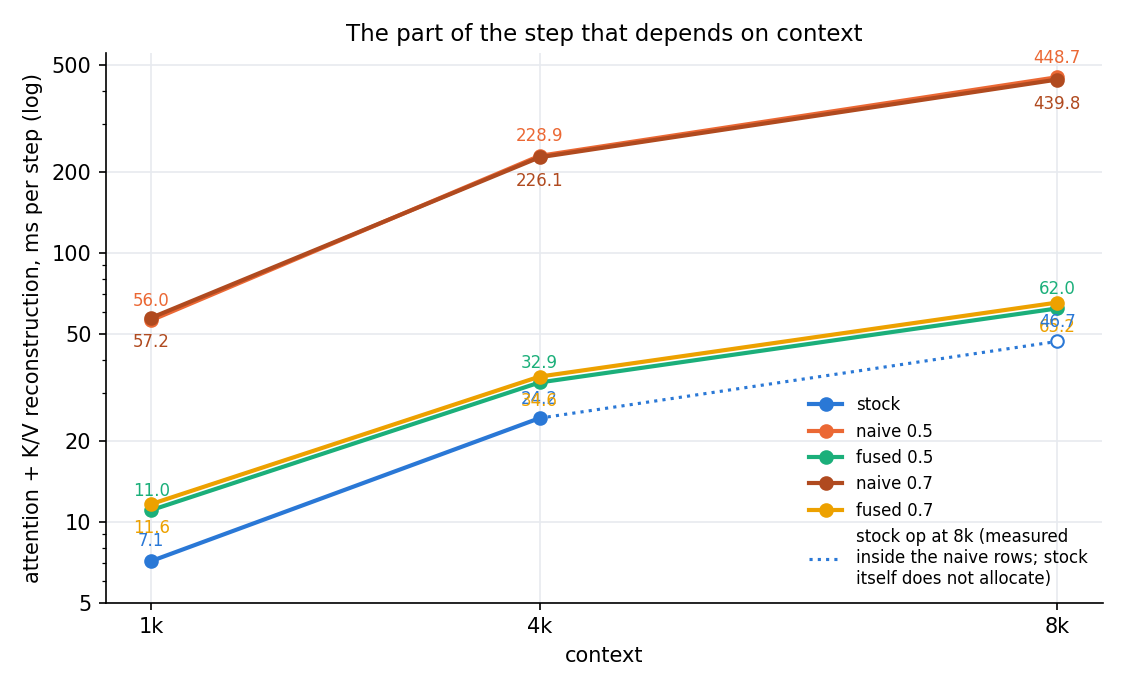
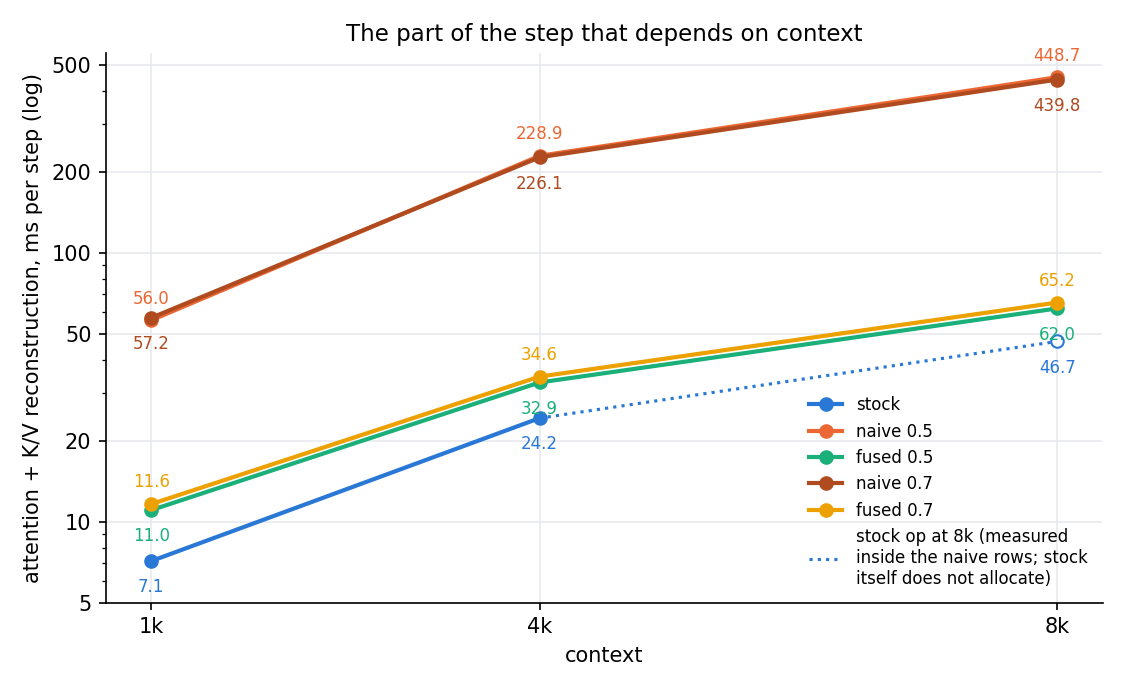
Stage 2d: fact-check corrections
Claude-Session: https://claude.ai/code/session_01SEbH3ediiqrAP9zmP59kKs

diff --git a/palu_tt/profile_plots.py b/palu_tt/profile_plots.py
@@ -94,7 +94,10 @@ def attention_ctx_figure(out_png):
                 ys.append(_cat_ms(p, "attention") + _cat_ms(p, "k_recon"))
         if xs:
             ax.plot(xs, ys, marker="o", color=ROW_COLOR[r], label=ROW_LABEL[r], linewidth=2)
-            dy = -14 if r.endswith("70") or r.endswith("70_fk2") else 7   # 0.5 above the line, 0.7 below
+            # within each near-coincident pair the upper line labels above and the lower below, so no two
+            # labels (nor stock's, nor the dotted stock-op point) land on the same spot
+            dy = {"baseline": -15, "palu_full_50": 8, "palu_full_70": -15,
+                  "palu_full_50_fk2": -15, "palu_full_70_fk2": 8}[r]
             for x, y in zip(xs, ys):
                 ax.annotate(f"{y:.1f}", (x, y), textcoords="offset points", xytext=(0, dy), fontsize=8,
                             color=ROW_COLOR[r], ha="center")
@@ -103,7 +106,7 @@ def attention_ctx_figure(out_png):
         st4 = _cat_ms(_load("baseline", 4096), "attention")
         ax.plot([4, 8], [st4, stock_8k], color=ROW_COLOR["baseline"], linewidth=1.5, linestyle=":")
         ax.plot([8], [stock_8k], marker="o", markerfacecolor="white", color=ROW_COLOR["baseline"])
-        ax.annotate(f"{stock_8k:.1f}", (8, stock_8k), textcoords="offset points", xytext=(0, 7), fontsize=8,
+        ax.annotate(f"{stock_8k:.1f}", (8, stock_8k), textcoords="offset points", xytext=(0, -15), fontsize=8,
                     color=ROW_COLOR["baseline"], ha="center")
         ax.plot([], [], color=ROW_COLOR["baseline"], linestyle=":", label="stock op at 8k (measured\ninside the naive rows; stock\nitself does not allocate)")
     ax.set_xticks([c // 1024 for c in CONTEXTS])

diff --git a/docs/results/stage2d.md b/docs/results/stage2d.md
@@ -48,14 +48,16 @@ bound on the step. The untraced wall-clock step from the separate, unprofiled `b
 
 Two things follow. First, **the step is device-bound**: at most 3.3 % of it is dispatch bubbles, so
 optimising the ops is the whole game and the untraced-vs-traced question stage 2 left open is worth
-at most ~1.5 ms at 4k. Second, **the profiler is not visibly perturbing the kernels**: a profiled
+at most ~1.5 ms at 4k — for stock and the fused rows; the naive rows' 2.2 % is 5.7 ms (0.5) and
+6.1 ms (0.7) at 4k, because the same relative dispatch overhead rides a step five times as long. Second, **the profiler is not visibly perturbing the kernels**: a profiled
 kernel that ran slow would push the device sum *up*, and the sum comes in consistently *below* an
 independently measured wall clock by a small, stable margin. That is an argument, not a measurement —
 the same model was not benched with and without the profiler.
 
 **A note on precision.** Three steps is enough because the per-op numbers are extremely repeatable
-(the same op signature at the same shape lands within 0.003 ms of itself across rows — e.g. the MLP
-category is 12.322–12.333 ms in all fourteen runs), but it means there is **no run-to-run error bar**
+(the same op signature at the same shape lands within about 0.02 ms of itself across rows — worst
+case 0.0223 ms on the 64-call reduce-scatter; the MLP category is 12.322–12.333 ms in all fourteen
+runs), but it means there is **no run-to-run error bar**
 in this stage. Differences below ~0.05 ms per step should not be read.
 
 **The roofline used below.** Wormhole n300 is 24 GB of GDDR6 at ~576 GB/s across two chips, i.e.
@@ -111,12 +113,18 @@ What those 30 ms are (ratio 0.5 and 0.7 columns are the fused rows), at 4k:
 | layout | 0.372 | 1.489 | 1.472 | 1.043 | 1.037 | shard/reshard/typecast/slice |
 | **total** | **29.93** | **30.75** | **30.55** | **30.63** | **30.20** | |
 
-The Palu rows pay **+1.10 ms of extra `layout`** (0.372 → 1.47 at ratio 0.5) for slicing and
-resharding the two latent caches, get **0.16 ms back on `heads`** (they do not RoPE K in decode mode
-— the K rotation moves either into the reconstruction or into the fused kernel), and land 0.3–0.8 ms
-above stock in total. `ccl` is the only category with real spread (9.31–10.48 ms across all fourteen
-runs, ±6 %); it is a cross-chip synchronisation and picks up whatever skew the rest of the step has,
-which is why the naive 8k rows — where the step is 480 ms long — show its highest values.
+The Palu rows pay **+1.10 ms of extra `layout`** (0.372 → 1.47 at ratio 0.5), and it is not the
+latent caches: two thirds of it is `Pad` (0.520) plus `FillPad` (0.262) on the *attention output*,
+`[1, 32, 16, r_v] → [1, 32, 32, 128]`, i.e. padding the narrow V-absorbed output back to tile width
+before `wo`. Those ops run only on layers whose `r_v` is below 128 — 14 calls each at ratio 0.5
+(0.446 + 0.224 on the twelve `r_v` 64 layers, the rest on the two `r_v` 96 ones) against 7 at
+ratio 0.7, which is exactly why ratio 0.5 carries more `layout` (1.47) than ratio 0.7 (1.04) despite
+storing less. The Palu rows also get **0.16 ms back on `heads`** (they do not RoPE K in decode mode —
+the K rotation moves either into the reconstruction or into the fused kernel), and land 0.3–0.8 ms
+above stock in total. `ccl` is the only category with real spread (9.05–10.48 ms across all fourteen
+runs, ±7.4 % about the mean; 9.31 is only the minimum of the 4k table above); it is a cross-chip
+synchronisation and picks up whatever skew the rest of the step has, which is why the naive 8k rows —
+where the step is 480 ms long — show its highest values.
 
 **Why this part is identical: decode at batch 32 is weight-streaming, and the weights do not change.**
 Every row runs the same 8B-parameter model in bfp8; per chip per step the four matmul categories move
@@ -129,7 +137,8 @@ Every row runs the same 8B-parameter model in bfp8; per chip per step the four m
 | lm_head | 4096 × 64128 → 0.279 GB | 1.090 | 256 GB/s |
 | **all four** | **3.987 GB** | **16.83** | **237 GB/s** |
 
-At 84 % of the n300's ~288 GB/s datasheet bandwidth, these ops are as memory-bound as a decode step
+At 82 % of the n300's ~288 GB/s datasheet bandwidth (the MLP alone is at 84 %), these ops are as
+memory-bound as a decode step
 gets: the batch of 32 tokens is far too small to make them compute-bound, so they cost exactly one
 pass over the weights regardless of what the attention block does. That is the "30 ms floor", and it
 is why **the only lever any KV-compression scheme has on a batch-32 decode step is the attention
@@ -144,13 +153,13 @@ The 243 GB/s the MLP achieves is used as the in-situ roofline for the rest of th
 
 Attention + reconstruction, ms per step (log axis in the figure). Stock does not allocate at 8192 at
 batch 32, but its op is still measured there: the naive rows run **the stock op on the reconstructed
-full-width K**, and its `out`-128 signature costs 1.461 ms per layer at 8k, i.e. **46.8 ms for 32
+full-width K**, and its `out`-128 signature costs 1.4608 ms per layer at 8k, i.e. **46.7 ms for 32
 layers** — a measurement, not an extrapolation (a linear fit through stock's 1k and 4k points
 predicts 47.0, which is the same number). The figure shows this as the dotted extension.
 
 | row | 1k | 4k | 8k | slope, ms per extra 1024 positions |
 |---|---|---|---|---|
-| stock | 7.13 | 24.24 | (46.8, op only) | 5.70 |
+| stock | 7.13 | 24.24 | (46.7, op only) | 5.70 |
 | naive 0.5 | 56.03 | 228.86 | 448.75 | 56.10 |
 | naive 0.7 | 57.23 | 226.08 | 439.76 | 54.65 |
 | fused 0.5 | 11.03 | 32.90 | 62.01 | 7.28 |
@@ -196,15 +205,18 @@ per-layer, per-chip cache bytes the op must read: `32 batch × 4 heads × S × (
 
 (The 4k figures for `r_k` 32 / `r_v` 128 appear in both fused rows — 1.034 ms on 18 layers of ratio
 0.5 and 1.037 ms on 3 layers of ratio 0.7 — and for `r_k` 64 / `r_v` 96 on one layer of each, 1.112
-and 1.108. Reproducibility across independent runs is 0.3 %.)
+and 1.108. Reproducibility across independent runs is 0.4 % (1.0335 vs 1.0374, 1.1122 vs 1.1082).)
 
 **Read the two halves of that table against each other. The stock op is bandwidth-bound and the fused
-op is not.** Every stock variant sits at 74–80 % of the in-situ roofline at 4k and 8k, and its time
-tracks its bytes: dropping `r_v` from 128 to 64 removes 25 % of the bytes and 22 % of the time
-(0.758 → 0.592). Every fused variant sits at 22–42 %, and its time barely tracks its bytes at all:
-at 4k, dropping `r_v` from 128 to 64 removes **40 % of the bytes and 2 % of the time**
-(1.034 → 1.014), and doubling `r_k` from 32 to 64 — which doubles both the latent bytes and the
-reconstruction matmul's inner dimension — costs **7.7 %** (1.034 → 1.114), not 100 %.
+op is not.** Every stock variant sits at 74–80 % of the in-situ roofline at 4k and 8k (61–66 % at 1k,
+where the op is too short to reach it), and its time tracks its bytes: dropping `r_v` from 128 to 64
+removes 25 % of the bytes and 22 % of the time (0.758 → 0.592). Every fused variant sits at 22–42 %,
+and its time barely tracks its bytes at all: at 4k, dropping `r_v` from 128 to 64 removes **40 % of
+the op's cache bytes and 2 % of its time** (89.1 → 53.5 MB, 1.034 → 1.014 ms), and doubling `r_k`
+from 32 to 64 — which doubles the latent bytes and the reconstruction matmul's inner dimension, and
+raises the op's total cache bytes by 20 % (89.1 → 107.0 MB) — costs **7.7 %** (1.034 → 1.114). Read
+the other way: going from (32, 64) to (64, 128) doubles both ranks and raises the bytes by 100 %
+(53.5 → 107.0 MB) for **10 %** more time.
 
 Stage 2 called the kernel "overhead-bound, not bandwidth-bound" from a layer-0 microbench. This
 confirms it on the whole model, and quantifies it: the fused op reads **0.63x** stock's bytes at
@@ -216,7 +228,7 @@ Aggregated over the 32 layers (per-layer ranks in §5), that is:
 |---|---|---|---|---|---|
 | 1024 | 7.13 | 11.03 | 1.55x | 11.62 | 1.63x |
 | 4096 | 24.24 | 32.90 | 1.36x | 34.59 | 1.43x |
-| 8192 | (46.8) | 62.01 | 1.33x | 65.20 | 1.39x |
+| 8192 | (46.7) | 62.01 | 1.33x | 65.20 | 1.39x |
 
 The naive rows' *attention op* is meanwhile **cheaper than stock** — 22.12 vs 24.24 ms at 4k — because
 absorbing V into `wo` narrows the output to `r_v` and the op is bandwidth-bound, so a narrower V is
@@ -232,6 +244,12 @@ directly cheaper. That saving is worth ~2 ms and is bought at the price of the n
 The waterfall says the whole story in one bar: at 4k the naive ratio-0.5 row is stock **+206.7 ms of
 K/V reconstruction**, −2.1 ms of attention op, +1.1 ms of layout, −0.2 ms of heads and −0.1 of CCL; and the
 fused row is the naive row **−206.7 ms of reconstruction, +10.8 ms of attention op**.
+
+Ratio 0.7 (second figure) is the same shape with smaller numbers everywhere but the reconstruction:
+stock 54.2 **+202.4** (reconstruction) **−0.6** (attention op — 0.7's mix of `r_v` 96/128 gives back
+less than 0.5's `r_v` 64 layers do) **+0.7** (layout, fewer narrow-`r_v` layers to pad than 0.5's
++1.1) **−0.2** (heads) **+0.2** (CCL) = 256.7; then **−202.4** (reconstruction) **+10.9** (attention
+op) **−0.4** (CCL) = 64.8. The two ratios differ by less than 3 ms at every point of the bridge.
 
 Per decode step the naive path runs three op signatures per layer, on the full-width K it has to
 materialise. At ratio 0.5, 4k:
@@ -252,20 +270,23 @@ and the same three at the other contexts (ratio 0.5, ms per step):
 | 4096 | 91.17 | 79.77 | 32.77 | 3.03 | 206.74 | 6.461 ms | 1577 ns |
 | 8192 | 175.36 | 159.38 | 65.89 | 5.71 | 406.34 | 12.698 ms | 1550 ns |
 
-Ratio 0.7 (31 reconstructed layers; layer 31 has `r_k` 128 and needs none): 19.24 + 17.62 + 8.15 +
-5.26 = 50.28 at 1k, 77.27 + 69.75 + 31.83 + 23.54 = 202.40 at 4k, 154.62 + 131.05 + 63.37 + 45.18 =
-394.22 at 8k.
+Ratio 0.7 has 31 reconstructed layers (layer 31 has `r_k` 128 and needs none) and its matmuls split
+between the two ranks, so its terms come in a different order — RoPE + `r_k` 64 matmuls (×23) +
+typecast + `r_k` 32 matmuls (×8): 19.24 + 17.62 + 8.15 + 5.26 = 50.28 at 1k, 77.27 + 69.75 + 31.83 +
+23.54 = 202.40 at 4k, 154.62 + 131.05 + 63.37 + 45.18 = 394.22 at 8k.
 
-**Everything is linear in S**, to 4 %: the per-position-per-layer cost is 1509 / 1577 / 1550 ns at
+**Everything is linear in S**, to 4.5 %: the per-position-per-layer cost is 1509 / 1577 / 1550 ns at
 1k / 4k / 8k, and a straight line through the 1k and 8k step totals has an intercept of −1.5 ms, i.e.
 essentially zero. That is the defining property of the naive path: it re-materialises the **entire**
 `[32, 4, S, 128]` K tensor for **every layer** on **every decode step**, to serve one new query row.
 At 4k that is 128 MiB of bf16 K per layer, written by the matmul, read and rewritten by the RoPE, read
-and rewritten (narrower) by the typecast, and finally read by the attention op — **20.1 GB of DRAM
-traffic per chip per step**, against the 4.0 GB the entire model's weights need. The reconstruction
-moves five times the model.
+and rewritten (narrower) by the typecast — **20.1 GB of DRAM traffic per chip per step** before the
+attention op has read anything, and the attention op then reads a further ~4.1 GB of it. Against the
+4.0 GB the entire model's weights need, the reconstruction alone moves five times the model.
 
-**Is it bandwidth-bound? Only one third of it is.** Against the 243 GB/s in-situ roofline:
+**Is it bandwidth-bound? Only the cheapest third of the bytes are.** The typecast is 33 % of the
+reconstruction's bytes but only 16 % of its time; the other two ops move more and take longer per
+byte. Against the 243 GB/s in-situ roofline:
 
 - the **typecast** is, at 201 GB/s (83 %). It is a pure streaming op and there is nothing to fix
   about it except not needing it.
@@ -277,7 +298,7 @@ moves five times the model.
   1.46 TFLOP/s for 4.29 GFLOP in 2.941 ms. It is a matmul with an inner dimension of **one 32-row
   tile** (`r_k` = 32) producing four output tiles per row block, so almost all of its time is
   per-output-tile unpack/pack and CB synchronisation rather than MACs. The direct evidence is that
-  **doubling `r_k` to 64 costs 3.1 %** (2.941 → 3.033 ms per layer): the inner dimension doubled and
+  **doubling `r_k` to 64 costs 3.0 %** (2.941 → 3.031 ms per layer): the inner dimension doubled and
   nothing happened, exactly as in the fused kernel (§4). Both paths are limited by the same thing —
   the cost of touching each output tile of a 128-wide K — and neither is limited by the rank.
 
@@ -304,23 +325,27 @@ nearly collinear points, so the fit is tight:
 
 | signature | fixed per layer | per chunk per layer | per head-item per chunk |
 |---|---|---|---|
-| stock, `r_v` 128 | 47.9 µs | 88.4 µs | 44.2 µs |
-| fused, `r_k` 32 / `r_v` 64 | 115.5 µs | 112.3 µs | 56.2 µs |
-| fused, `r_k` 32 / `r_v` 128 | 118.0 µs | 114.3 µs | 57.1 µs |
-| fused, `r_k` 64 / `r_v` 128 | 129.7 µs | 123.1 µs | 61.6 µs |
+| stock, `r_v` 128 | 47.7 µs | 88.4 µs | 44.2 µs |
+| fused, `r_k` 32 / `r_v` 64 | 115.9 µs | 112.2 µs | 56.1 µs |
+| fused, `r_k` 32 / `r_v` 128 | 118.1 µs | 114.3 µs | 57.2 µs |
+| fused, `r_k` 64 / `r_v` 128 | 129.5 µs | 123.1 µs | 61.6 µs |
 
-So the fused op's excess over stock decomposes into **~70 µs per layer of fixed cost** and
+Two significant figures is all these deserve: an intercept extrapolated from x = 2 / 8 / 16 carries
+roughly ±3 µs given the ~1 % per-op repeatability, so "70 µs of excess fixed cost" below means
+60–80 µs. So the fused op's excess over stock decomposes into **60–80 µs per layer of fixed cost**
+and
 **~26 µs per layer per chunk** (12.9 µs per head-item per chunk). The excess per chunk is therefore
 *not* constant when you divide the raw totals by chunk count — it falls from 61.5 µs at 1k to 34.5 at
 4k to 30.4 at 8k — precisely because part of it is fixed and part is per-chunk. The per-chunk part is
 what stops the ratio improving further with context, and the fixed part is why 1k is the worst case.
 
 A chunk of 512 positions is **16 K row tiles**, and per row tile the kernel (spec §4) does: one
-`AB = lat @ [u_k | u_k·T]` matmul (inner dim `r_k`/32 tiles, 8 output tiles); then, for each of the 4
-column tiles, a separate `tile_regs_acquire`/`commit`/`wait`/`release` round trip containing two FPU
-`mul_tiles` and one SFPU `add_binary_tile`; plus `matmul_block_init`, `mul_init`,
-`add_binary_tile_init` and two `reconfig_data_format` calls **per row tile**. Charging the marginal
-excess to those row tiles:
+`AB = lat @ [u_k | u_k·T]` matmul (inner dim `r_k`/32 tiles, 8 output tiles), itself two more
+`tile_regs_acquire`/`release` pairs; then, for each of the 4 column tiles, a separate
+`tile_regs_acquire`/`commit`/`wait`/`release` round trip containing two FPU `mul_tiles` and one SFPU
+`add_binary_tile` — **six DST round trips per row tile in total**; plus `matmul_block_init`,
+`mul_init`, `add_binary_tile_init`, two `reconfig_data_format` and two `pack_reconfig_data_format`
+calls **per row tile**. Charging the marginal excess to those row tiles:
 
 | what | per head-item per chunk | per K row tile |
 |---|---|---|
@@ -331,18 +356,20 @@ excess to those row tiles:
 **The matmul is not the problem.** Adding a second inner tile to the `AB` matmul — a 100 % increase in
 its work and in the latent bytes read — costs 275 ns per row tile, about a third of the total 807 ns
 excess. The other two thirds are spent on work that happens once per row tile *regardless of rank*:
-the four DST round trips, the twelve elementwise tile ops, and the re-executed inits. That is exactly
+the six DST round trips, the twelve elementwise tile ops, and the re-executed inits. That is exactly
 the set of things stage 2 §4 listed as untried levers, and this profile is the evidence for them:
 
-- **DST round trips.** Four `tile_regs_acquire`/`release` pairs per row tile where two `j` values fit
-  in one acquisition at `dst_size = 4`, i.e. two round trips would do. Each round trip is a full
-  three-thread sync.
+- **DST round trips.** Six `tile_regs_acquire`/`release` pairs per row tile — two for the `AB`
+  matmul and one per column tile `j` — where two `j` values fit in one acquisition at `dst_size = 4`,
+  i.e. four would do. Each round trip is a full three-thread sync.
 - **Per-row-tile inits.** `matmul_block_init` / `mul_init` / `add_binary_tile_init` are re-run on
-  every one of the 16 row tiles per chunk; only the two `reconfig_data_format` calls genuinely have
-  to be per tile.
+  every one of the 16 row tiles per chunk; only the two `reconfig_data_format` and two
+  `pack_reconfig_data_format` calls genuinely have to be per tile.
 - **Half-tile Q.** `use_half_tile` is forced off in the copied op, so the Q side does full 32-row tile
-  math for 16 query heads per chip. This lands mostly in the **fixed** 70 µs per layer, which is the
-  part that dominates at 1k — and 1k is where the fused op is worst (1.55x).
+  math for 16 query heads per chip. *Inference, not measurement*: Q-side work is per call rather than
+  per chunk, so it should land in the **fixed** 60–80 µs per layer, which is the part that dominates
+  at 1k — and 1k is where the fused op is worst (1.55x). The profile cannot separate it from the
+  other per-call costs.
 - **SFPU add.** One SFPU `add_binary_tile` per (row tile, column tile) — 64 per chunk — where the
   FPU could accumulate the two products.
 
@@ -353,20 +380,30 @@ the set of things stage 2 §4 listed as untried levers, and this profile is the 
 | fused per layer (`r_k` 32 / `r_v` 128) | 0.346 | 1.034 | 1.947 |
 | stock per layer | 0.223 | 0.758 | 1.461 |
 | **fused must lose** | **36 %** | **27 %** | **25 %** |
-| whole-step: fused attention must fall from → to | 11.03 → 6.48 (−41 %) | 32.90 → 23.62 (−28 %) | – |
+| whole-step: fused attention must fall from → to | 11.03 → 6.48 (−41 %) | 32.90 → 23.63 (−28 %) | – |
 
-(The whole-step target is larger than the per-op target because the fused rows also carry ~0.6 ms of
-extra `layout`; a step matching stock's 54.17 ms at 4k needs its attention block at 23.62 ms, not at
+(The whole-step target is larger than the per-op target because the fused rows also carry a net
+0.6 ms of non-attention excess — `layout` +1.10, partly offset by cheaper `heads`, `ccl`, `norm` and
+`cache`; a step matching stock's 54.17 ms at 4k needs its attention block at 23.63 ms, not at
 stock's 24.24.)
 
-Is 26 % reachable from the levers above? The marginal excess is 807 ns per row tile. Halving the DST
-round trips (4 → 2) plausibly removes on the order of 200–400 ns of sync per row tile, and hoisting
+Is 27 % reachable from the levers above? The marginal excess is 807 ns per row tile. Cutting the DST
+round trips a third (6 → 4) plausibly removes on the order of 150–350 ns of sync per row tile, and hoisting
 the three inits out of the row-tile loop removes a smaller fixed block; together those are the right
 order of magnitude for the per-chunk part of the gap, and `use_half_tile` attacks the fixed part that
 dominates at 1k. **That is a plausibility argument from op counts, not a measurement** — none of the
 four levers has been tried, and stage 2 did not try them either. What this profile does settle is
 that they are the *right* things to try: there is no DRAM traffic left to remove, and the rank is
 nearly free.
+
+**One qualification on the byte model.** The MB figures in §2 count only the K and V caches; the fused
+op also reads its own weights and tables, which stock does not have. The largest is the Phase 2
+chunk-relative `[cos | sin]` table, 512 × 256 bf16 per core resident in `c_13` — **about 17 MB per
+call** across 64 cores, ~19 % on top of the 89.1 MB of cache at `r_k` 32 / `r_v` 128 and 4k (`w_rot`
+adds ~2 MB, `trans_mat` 0.13 MB). Counting it moves that point from 35 % to about 42 % of the
+in-situ roofline. It does not change the conclusion — 42 % is still half of stock's 77 %, and the
+table is read once per core per call, so it cannot explain a *per-chunk* cost — but the fused op's
+"% of roofline" figures in §2 are lower bounds by roughly that much.
 
 ---
 
@@ -412,13 +449,24 @@ The naive rows invert the ordering — 259.61 (0.5) vs 256.72 (0.7) at 4k, i.e. 
 one matmul, one RoPE and one typecast (6.46 ms at 4k), which more than covers the 3 % the wider
 latents add to the remaining 31 matmuls.
 
+**An implication for stage 3's calibration.** On the fused path the two ranks are priced very
+differently: at 4k, widening `r_v` from 64 to 128 costs **2 %** of the op (1.014 → 1.034) while
+widening `r_k` from 32 to 64 costs **8 %** (1.034 → 1.114), because `r_k` is the only one that feeds
+the per-row-tile reconstruction. A calibration that spent its bit budget on `r_v` and pinned `r_k` at
+32 would therefore buy back most of ratio 0.7's quality (ppl 9.03 vs 12.93 at ratio 0.5) at close to
+ratio 0.5's speed. The (32, 128) vs (64, 128) pair supports this directly: same output width, same
+V bytes, 1.034 vs 1.114 ms — and ratio 0.7 has 23 layers on the expensive side of it. This is a
+hypothesis the profile motivates, not a result: nothing here measures the quality of an
+`r_k`-pinned recipe.
+
 ---
 
 ## 6. The three questions
 
 **Why is naive Palu 2–5x slower than stock?** Because it rebuilds the entire K cache from its latents
-on every decode step, in three separate full-width passes, and pays 3–13x the cost of the attention
-op it is feeding. At 4k that is a `latent @ U` matmul (91.2 ms), a prefill-mode RoPE over the rebuilt
+on every decode step, in three separate full-width passes, and pays **7.2–9.6x** the cost of the
+attention op it is feeding (7.51 / 9.35 / 9.58 at ratio 0.5 and 7.23 / 8.55 / 8.66 at ratio 0.7, at
+1k / 4k / 8k). At 4k that is a `latent @ U` matmul (91.2 ms), a prefill-mode RoPE over the rebuilt
 K (79.8 ms) and a typecast back to bfp8 (32.8 ms) — **206.7 ms against stock's whole 54.2 ms step** —
 because every one of those ops materialises the full `[32, 4, 4096, 128]` bf16 K for each of 32
 layers, 20.1 GB of DRAM traffic per chip per step against the 4.0 GB the model's weights need. All
@@ -431,18 +479,20 @@ help — ratio 0.5 and ratio 0.7 reconstruct at the same speed.
 the attention op that replaced it is overhead-bound, not bandwidth-bound, and costs 1.33–1.55x the
 stock op per layer even while reading 0.63x the bytes. The whole difference between the fused rows and
 stock is the attention op: 30 ms of weight streaming, CCL and norms is identical in every row, and the
-fused rows sit 30.55 − 29.93 = 0.6 ms above stock outside attention (+1.10 ms of latent-cache
-layout, partly offset by cheaper decode-mode `heads` and CCL). The op's cost is dominated by
-per-K-row-tile work inside the reconstruct-and-rotate pass — four DST round trips, twelve elementwise
-tile ops and three re-executed inits for every 32 positions of every chunk — plus a fixed ~70 µs per
-layer of Q-side full-tile math. The proof that it is overhead and not data movement is that doubling
-`r_v` (40 % more bytes) costs 2 % and doubling `r_k` (which doubles both the latent bytes and the
-reconstruction matmul's inner dimension) costs 8 %; the stock op, by contrast, tracks its bytes almost
-exactly and runs at 74–80 % of the achievable DRAM bandwidth.
+fused rows sit 30.55 − 29.93 = 0.6 ms above stock outside attention (`layout` +1.10 for padding the
+narrow attention output, partly offset by cheaper decode-mode `heads`, CCL, `norm` and `cache`). The
+op's cost is dominated by per-K-row-tile work inside the reconstruct-and-rotate pass — six DST round
+trips, twelve elementwise tile ops and three re-executed inits for every 32 positions of every chunk —
+plus 60–80 µs per layer of fixed cost that includes the Q-side full-tile math. The proof that it is
+overhead and not data movement is that **removing 40 % of the op's cache bytes (`r_v` 128 → 64) saves
+2 % of its time**, and doubling `r_k` — which doubles the latent bytes and the reconstruction
+matmul's inner dimension — costs 8 %; the stock op, by contrast, tracks its bytes almost exactly and
+runs at 74–80 % of the achievable DRAM bandwidth at 4k and 8k (61–66 % at 1k, where it is too short
+to reach it).
 
 **Why does context change the ratio?** Because the fused op's excess over stock has a large fixed
-component, and context dilutes it. Per layer, stock costs 47.9 µs + 88.4 µs per 512-position chunk and
-the fused op costs 118.0 + 114.3; the fixed part is 2.5x stock's and the marginal part only 1.29x. At
+component, and context dilutes it. Per layer, stock costs 47.7 µs + 88.4 µs per 512-position chunk and
+the fused op costs 118.1 + 114.3; the fixed part is 2.5x stock's and the marginal part only 1.29x. At
 1k there are 2 chunks, so the fixed part is a third of the op and the ratio is 1.55x; at 8k there are
 16 chunks, the fixed part is 6 % of the op, and the ratio falls to 1.33x. The whole-step ratio moves
 the other way for a different reason — the constant 30 ms of weight streaming is a shrinking fraction
@@ -462,8 +512,12 @@ so it goes from 2.3x stock at 1k to 4.8x at 4k, and the fused kernel's advantage
   bounds the perturbation loosely, but the same model was never benched with and without the profiler,
   so there is no direct measurement of the profiler's cost.
 - **Three profiled steps, no error bar.** Repeatability across rows for identical op signatures is
-  0.3 % or better and the two chips agree to 0.034 %, but nothing here has a run-to-run spread. Read
-  no difference smaller than ~0.05 ms per step.
+  at most 1 % for the compute ops (worst: 0.9 % on `SdpaDecode`, 0.7 % on the typecast, 0.3 % on the
+  reconstruction matmul), and the two chips agree to 0.034 %. Two ops are much noisier and neither
+  matters to a conclusion here: the 64-call reduce-scatter varies **21 %** per call (0.0223 ms, and
+  it is why the `ccl` category moves ±7.4 %) and the lm_head untilize **9 %** (0.0093 ms). Nothing
+  here has a run-to-run spread from repeated runs of the *same* row. Read no difference smaller than
+  ~0.05 ms per step.
 - **Batch 32 only, and one position.** Every profile is batch 32 decoding at the last position of the
   context. The 30 ms weight-streaming floor is a batch-32 statement: at batch 1 the same weights are
   streamed for one token and the attention block is negligible, which is why stage 2 §5 found the
@@ -476,10 +530,12 @@ so it goes from 2.3x stock at 1k to 4.8x at 4k, and the fused kernel's advantage
   fused 0.7).
 - **Stock has no 8192 row** — it does not allocate at batch 32. Its op cost at 8k is taken from the
   identical `SdpaDecode` `out`-128 signature that the naive rows run there (1.461 ms per layer);
-  a whole stock 8k *step* is not measured and the 46.8 ms figure is 32 × that per-layer cost, not a
+  a whole stock 8k *step* is not measured and the 46.7 ms figure is 32 × that per-layer cost, not a
   step.
 - **The core-assignment arithmetic** (2 head-items per core, 64 cores, no context split) is derived
-  from `sdpa_decode_program_factory.cpp` for `B` = 32, `num_kv_heads` = 4 on a 64-core grid, and from
+  from the core-allocation block of `palu_sdpa_decode_program_factory.cpp` (:210-269; the stock
+  `sdpa_decode_program_factory.cpp` has the identical rule) for `B` = 32, `num_kv_heads` = 4 on a
+  64-core grid with group mode off (`heads_per_group` = 1 for a per-head SVD dump), and from
   the `CORE COUNT` = 64 column in the CSVs; it was not confirmed against a runtime dump of the
   per-core work assignment. The per-chunk and per-row-tile figures in §4 depend on it.
 - **The DRAM roofline is in-situ.** 243 GB/s is what the MLP matmuls achieve in these profiles, and
@@ -488,7 +544,9 @@ so it goes from 2.3x stock at 1k to 4.8x at 4k, and the fused kernel's advantage
 - **Bytes are computed, not counted.** Every MB figure in §2 and §3 is `elements × bytes/element` from
   the op's own input/output shapes and the known dtypes (bfp8_b at 1.0625 B/element, bf16 at 2), not a
   DRAM traffic counter. It ignores L1 reuse and any read amplification, so the achieved-GB/s columns
-  are lower bounds on the true traffic rate.
+  are lower bounds on the true traffic rate. For the **fused** op it also counts only the K and V
+  caches and omits the op's own weight and table reads — chiefly the Phase 2 `[cos | sin]` table,
+  ~17 MB per call, ~19 % on top of the cache bytes at `r_k` 32 / 4k (§4).
 - **`use_qk_fused=False` and the stock HiFi2 / fp32-dest compute config** everywhere, as in stage 2.
 - **Provenance.** All fourteen profiles were taken on 2026-09-13 between 15:47 and 16:01, sequentially,
   one process at a time, on an idle host gated by `scripts/device_free.sh`.
